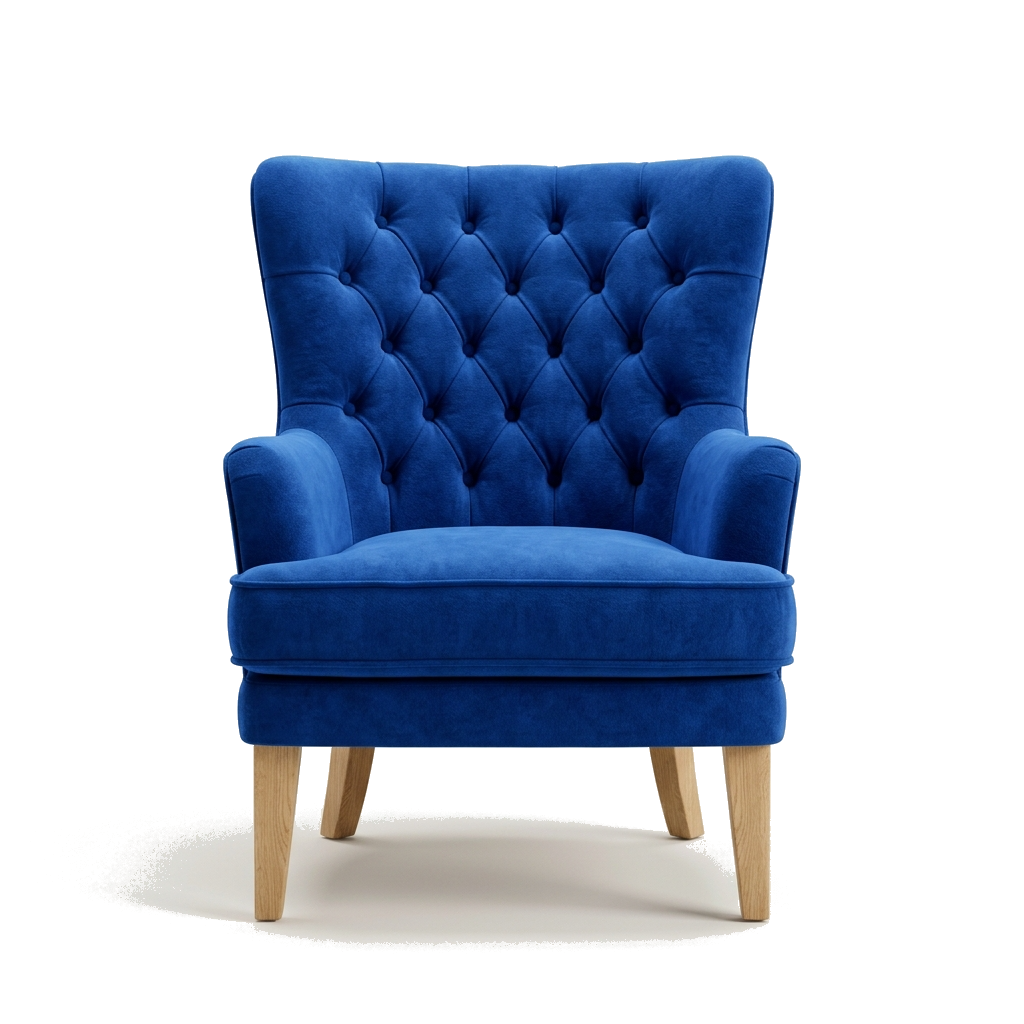
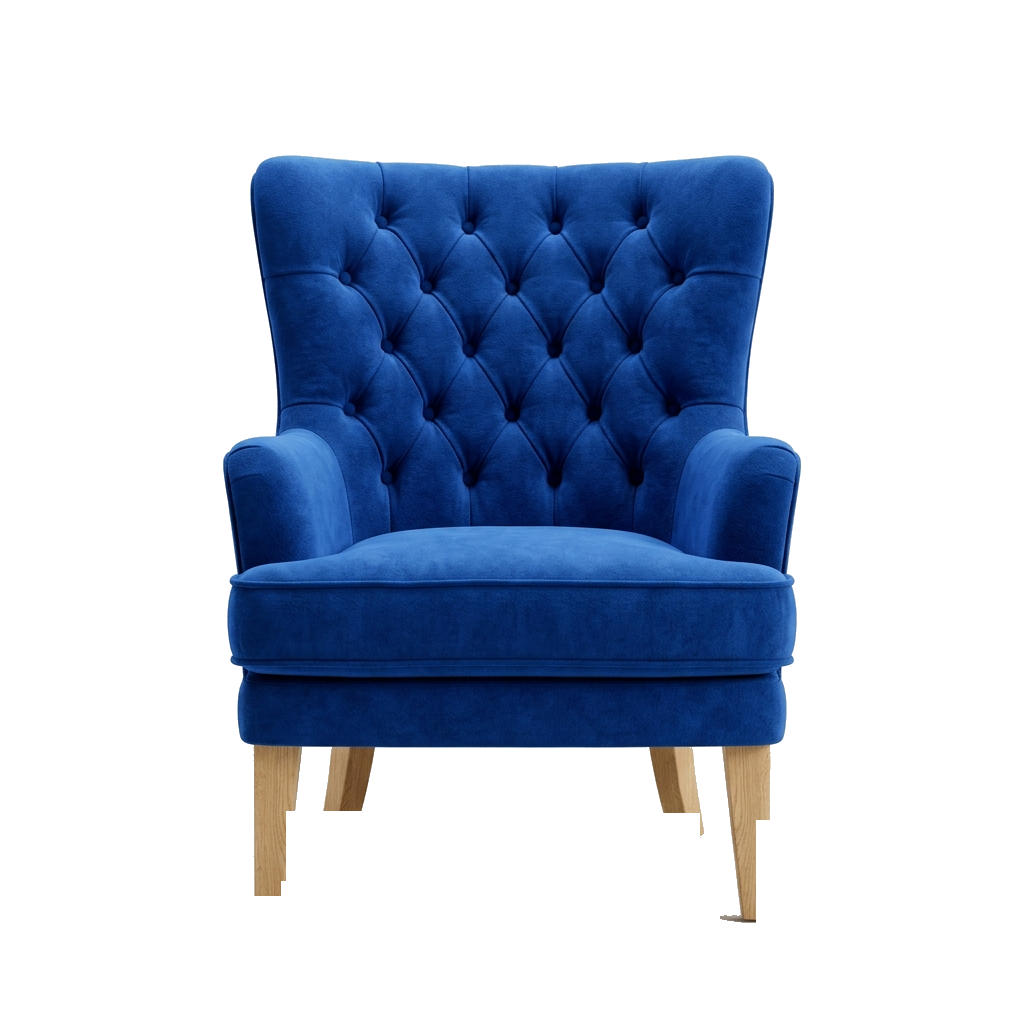
Update all chair catalog images to 1024x1024 transparent PNGs with full visibility and zero background

Changed region(s): [[0.125, 0.7812, 0.75, 0.9375]]

diff --git a/src/lib/cartStore.ts b/src/lib/cartStore.ts
@@ -82,28 +82,44 @@ function saveToStorage() {
 
 // Known product image fallbacks ensuring no broken thumbnails
 export const KNOWN_PRODUCT_IMAGES: Record<string, string> = {
-  "day-241-shack15-armchair": "/images/chair_thumb_yellow.png",
+  "day-241-shack15-armchair": "/images/bolle_lounge_chair.png",
   "cyan-armchair": "/images/cyan_chair.png",
   "modular-sofa": "/images/modular_blue_sofa.png",
   "bergere-wingback": "/images/wingback_chair.png",
   "dauphine-armchair": "/images/wood_armchair.png",
   "koto-lounge": "/images/midcentury_sofa.png",
-  "green-arm-chair": "/images/atelier_green_armchair.jpg",
+  "green-arm-chair": "/images/green_armchair.png",
 };
 
 export function cleanImageUrl(url?: string, itemId?: string): string {
+  if (itemId && KNOWN_PRODUCT_IMAGES[itemId]) {
+    if (
+      !url ||
+      typeof url !== "string" ||
+      !url.trim() ||
+      url === "undefined" ||
+      url === "null" ||
+      url.includes("green_accent_chair") ||
+      url.includes("atelier_green_armchair")
+    ) {
+      return KNOWN_PRODUCT_IMAGES[itemId];
+    }
+  }
   if (!url || typeof url !== "string" || !url.trim() || url === "undefined" || url === "null") {
     if (itemId && KNOWN_PRODUCT_IMAGES[itemId]) {
       return KNOWN_PRODUCT_IMAGES[itemId];
     }
-    return "/images/chair_thumb_yellow.png";
+    return "/images/bolle_lounge_chair.png";
   }
   const cleaned = url.trim().replace(/^https?:\/\/localhost:\d+/i, "");
   if (!cleaned || cleaned === "/" || cleaned.includes("undefined")) {
     if (itemId && KNOWN_PRODUCT_IMAGES[itemId]) {
       return KNOWN_PRODUCT_IMAGES[itemId];
     }
-    return "/images/chair_thumb_yellow.png";
+    return "/images/bolle_lounge_chair.png";
+  }
+  if (itemId && KNOWN_PRODUCT_IMAGES[itemId] && (cleaned.includes("green_accent_chair") || cleaned.includes("atelier_green_armchair"))) {
+    return KNOWN_PRODUCT_IMAGES[itemId];
   }
   return cleaned;
 }

diff --git a/src/app/admin/page.tsx b/src/app/admin/page.tsx
@@ -949,7 +949,7 @@ export default function AdminDashboardPage() {
                               <img
                                 src={product.image || "/images/chair_thumb_yellow.png"}
                                 alt={product.name}
-                                className="w-full h-full object-contain mix-blend-multiply group-hover:scale-105 transition-transform"
+                                className="w-full h-full object-contain drop-shadow-[0_4px_10px_rgba(0,0,0,0.08)] group-hover:scale-105 transition-transform"
                               />
                             </div>
                             <div className="min-w-0">
@@ -1224,7 +1224,7 @@ export default function AdminDashboardPage() {
                         <img
                           src={formData.image}
                           alt="Selected product preview"
-                          className="w-full h-full object-contain mix-blend-multiply"
+                          className="w-full h-full object-contain drop-shadow-[0_4px_10px_rgba(0,0,0,0.08)]"
                         />
                         {isUploading && (
                           <div className="absolute inset-0 bg-[#141210]/60 backdrop-blur-xs flex items-center justify-center">

diff --git a/src/components/collections/CollectionSection.tsx b/src/components/collections/CollectionSection.tsx
@@ -12,7 +12,7 @@ const COLLECTION_ITEMS: CollectionItem[] = [
     category: "Living & Lounge",
     price: "$2,850",
     priceNum: 2850,
-    image: "/images/chair_thumb_yellow.png",
+    image: "/images/bolle_lounge_chair.png",
     isFeatured: true,
     material: "Solid European Oak with hand-tufted saffron wool bouclé",
     dimensions: "84 W × 88 D × 78 H cm (Seat 42 cm)",
@@ -98,7 +98,7 @@ function mapToCollectionItem(p: any): CollectionItem {
       typeof p.priceNum === "number"
         ? p.priceNum
         : parseFloat(String(p.price).replace(/[^0-9.]/g, "")) || 0,
-    image: p.image || "/images/chair_thumb_yellow.png",
+    image: p.image || "/images/bolle_lounge_chair.png",
     isFeatured: isDefault3D,
     is3D: isDefault3D,
     material: p.quickSpecs?.material || p.material || "",

diff --git a/src/components/product/SingleProductView.tsx b/src/components/product/SingleProductView.tsx
@@ -523,7 +523,7 @@ export function SingleProductView({ product }: SingleProductViewProps) {
                       fill
                       unoptimized
                       sizes="(max-width: 640px) 160px, (max-width: 1024px) 240px, 280px"
-                      className="object-contain pointer-events-none select-none mix-blend-multiply"
+                      className="object-contain pointer-events-none select-none drop-shadow-[0_8px_16px_rgba(0,0,0,0.10)]"
                       onError={(e) => {
                         const target = e.currentTarget as HTMLImageElement;
                         const fallback = cleanImageUrl("", rel.id);

diff --git a/src/lib/products.ts b/src/lib/products.ts
@@ -47,7 +47,7 @@ export const PRODUCTS_CATALOG: ProductDetail[] = [
     inStock: true,
     price: "$2,850.00",
     priceNum: 2850,
-    image: "/images/chair_thumb_yellow.png",
+    image: "/images/bolle_lounge_chair.png",
     is3D: true,
     modelUrl: "/models/arm_chair__furniture.glb",
     quickSpecs: {
@@ -312,7 +312,7 @@ export const PRODUCTS_CATALOG: ProductDetail[] = [
     inStock: true,
     price: "$1,250.00",
     priceNum: 1250,
-    image: "/images/atelier_green_armchair.jpg",
+    image: "/images/green_armchair.png",
     is3D: false,
     quickSpecs: {
       designer: "Studio Furnix",

diff --git a/src/app/products/page.tsx b/src/app/products/page.tsx
@@ -301,7 +301,7 @@ export default function CompleteCollectionPage() {
                         fill
                         unoptimized
                         sizes="(max-width: 640px) 280px, (max-width: 1024px) 320px, 360px"
-                        className="object-contain pointer-events-none mix-blend-multiply select-none"
+                        className="object-contain pointer-events-none drop-shadow-[0_12px_24px_rgba(0,0,0,0.12)] select-none"
                         priority={idx < 4}
                         loading={idx < 4 ? "eager" : "lazy"}
                         draggable={false}

diff --git a/src/components/collections/ProductCard.tsx b/src/components/collections/ProductCard.tsx
@@ -114,7 +114,7 @@ export function ProductCard({
                 fill
                 unoptimized
                 sizes="(max-width: 640px) 280px, (max-width: 1024px) 320px, 360px"
-                className="object-contain pointer-events-none mix-blend-multiply select-none"
+                className="object-contain pointer-events-none drop-shadow-[0_12px_24px_rgba(0,0,0,0.12)] select-none"
                 priority
                 loading="eager"
                 draggable={false}
